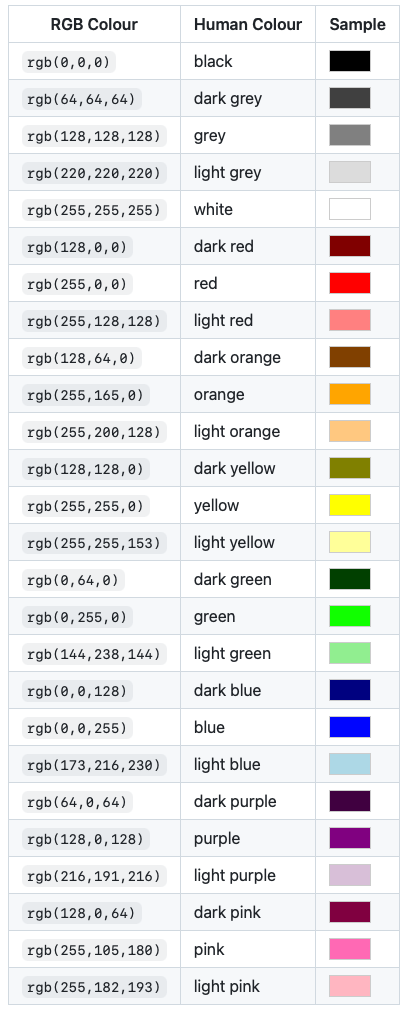
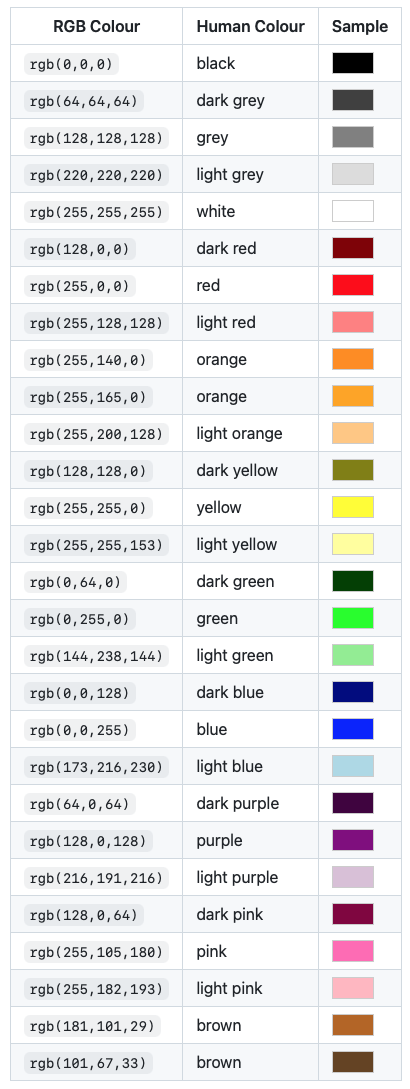
brown is a weird colour https://www.youtube.com/watch\?v\=wh4aWZRtTwU

diff --git a/spec/human_colour_spec.rb b/spec/human_colour_spec.rb
@@ -7,39 +7,42 @@ RSpec.describe HumanColour do
 
   describe ".parse" do
     colours = {
-      "rgb(0,0,0)"        => { en: "black",        es: "negro",         it: "nero",           fr: "noir",          de: "schwarz",        pt: "preto" },
-      "rgb(64,64,64)"     => { en: "dark grey",    es: "gris oscuro",   it: "grigio scuro",   fr: "gris foncé",    de: "dunkel grau",    pt: "cinza escuro" },
-      "rgb(128,128,128)"  => { en: "grey",         es: "gris",          it: "grigio",         fr: "gris",          de: "grau",           pt: "cinza" },
-      "rgb(220,220,220)"  => { en: "light grey",   es: "gris claro",    it: "grigio chiaro",  fr: "gris clair",    de: "hell grau",      pt: "cinza claro" },
-      "rgb(255,255,255)"  => { en: "white",        es: "blanco",        it: "bianco",         fr: "blanc",         de: "weiß",           pt: "branco" },
+      "rgb(0,0,0)"        => { en: "black",        es: "negro",           it: "nero",             fr: "noir",          de: "schwarz",       pt: "preto" },
+      "rgb(64,64,64)"     => { en: "dark grey",    es: "gris oscuro",     it: "grigio scuro",     fr: "gris foncé",    de: "dunkel grau",   pt: "cinza escuro" },
+      "rgb(128,128,128)"  => { en: "grey",         es: "gris",            it: "grigio",           fr: "gris",          de: "grau",          pt: "cinza" },
+      "rgb(220,220,220)"  => { en: "light grey",   es: "gris claro",      it: "grigio chiaro",    fr: "gris clair",    de: "hell grau",     pt: "cinza claro" },
+      "rgb(255,255,255)"  => { en: "white",        es: "blanco",          it: "bianco",           fr: "blanc",         de: "weiß",          pt: "branco" },
 
-      "rgb(128,0,0)"      => { en: "dark red",     es: "rojo oscuro",   it: "rosso scuro",    fr: "rouge foncé",   de: "dunkel rot",     pt: "vermelho escuro" },
-      "rgb(255,0,0)"      => { en: "red",          es: "rojo",          it: "rosso",          fr: "rouge",         de: "rot",            pt: "vermelho" },
-      "rgb(255,128,128)"  => { en: "light red",    es: "rojo claro",    it: "rosso chiaro",   fr: "rouge clair",   de: "hell rot",       pt: "vermelho claro" },
+      "rgb(128,0,0)"      => { en: "dark red",     es: "rojo oscuro",     it: "rosso scuro",      fr: "rouge foncé",   de: "dunkel rot",    pt: "vermelho escuro" },
+      "rgb(255,0,0)"      => { en: "red",          es: "rojo",            it: "rosso",            fr: "rouge",         de: "rot",           pt: "vermelho" },
+      "rgb(255,128,128)"  => { en: "light red",    es: "rojo claro",      it: "rosso chiaro",     fr: "rouge clair",   de: "hell rot",      pt: "vermelho claro" },
 
-      "rgb(128,64,0)"     => { en: "dark orange",  es: "naranja oscuro", it: "arancione scuro", fr: "orange foncé",  de: "dunkel orange", pt: "laranja escuro" },
-      "rgb(255,165,0)"    => { en: "orange",       es: "naranja",        it: "arancione",       fr: "orange",        de: "orange",        pt: "laranja" },
-      "rgb(255,200,128)"  => { en: "light orange", es: "naranja claro",  it: "arancione chiaro", fr: "orange clair", de: "hell orange",   pt: "laranja claro" },
+      "rgb(255,165,0)"    => { en: "orange",       es: "naranja",         it: "arancione",        fr: "orange",        de: "orange",        pt: "laranja" },
+      "rgb(255,200,128)"  => { en: "light orange", es: "naranja claro",   it: "arancione chiaro", fr: "orange clair",  de: "hell orange",   pt: "laranja claro" },
 
-      "rgb(128,128,0)"    => { en: "dark yellow",  es: "amarillo oscuro", it: "giallo scuro",  fr: "jaune foncé",   de: "dunkel gelb",   pt: "amarelo escuro" },
-      "rgb(255,255,0)"    => { en: "yellow",       es: "amarillo",        it: "giallo",        fr: "jaune",         de: "gelb",          pt: "amarelo" },
-      "rgb(255,255,153)"  => { en: "light yellow", es: "amarillo claro",  it: "giallo chiaro", fr: "jaune clair",   de: "hell gelb",     pt: "amarelo claro" },
+      "rgb(128,128,0)"    => { en: "dark yellow",  es: "amarillo oscuro", it: "giallo scuro",     fr: "jaune foncé",   de: "dunkel gelb",   pt: "amarelo escuro" },
+      "rgb(255,255,0)"    => { en: "yellow",       es: "amarillo",        it: "giallo",           fr: "jaune",         de: "gelb",          pt: "amarelo" },
+      "rgb(255,255,153)"  => { en: "light yellow", es: "amarillo claro",  it: "giallo chiaro",    fr: "jaune clair",   de: "hell gelb",     pt: "amarelo claro" },
 
-      "rgb(0,64,0)"       => { en: "dark green",   es: "verde oscuro",  it: "verde scuro",    fr: "vert foncé",    de: "dunkel grün",    pt: "verde escuro" },
-      "rgb(0,255,0)"      => { en: "green",        es: "verde",         it: "verde",          fr: "vert",          de: "grün",           pt: "verde" },
-      "rgb(144,238,144)"  => { en: "light green",  es: "verde claro",   it: "verde chiaro",   fr: "vert clair",    de: "hell grün",      pt: "verde claro" },
+      "rgb(0,64,0)"       => { en: "dark green",   es: "verde oscuro",    it: "verde scuro",      fr: "vert foncé",    de: "dunkel grün",   pt: "verde escuro" },
+      "rgb(0,255,0)"      => { en: "green",        es: "verde",           it: "verde",            fr: "vert",          de: "grün",          pt: "verde" },
+      "rgb(144,238,144)"  => { en: "light green",  es: "verde claro",     it: "verde chiaro",     fr: "vert clair",    de: "hell grün",     pt: "verde claro" },
 
-      "rgb(0,0,128)"      => { en: "dark blue",    es: "azul oscuro",   it: "blu scuro",      fr: "bleu foncé",    de: "dunkel blau",    pt: "azul escuro" },
-      "rgb(0,0,255)"      => { en: "blue",         es: "azul",          it: "blu",            fr: "bleu",          de: "blau",           pt: "azul" },
-      "rgb(173,216,230)"  => { en: "light blue",   es: "azul claro",    it: "blu chiaro",     fr: "bleu clair",    de: "hell blau",      pt: "azul claro" },
+      "rgb(0,0,128)"      => { en: "dark blue",    es: "azul oscuro",     it: "blu scuro",        fr: "bleu foncé",    de: "dunkel blau",   pt: "azul escuro" },
+      "rgb(0,0,255)"      => { en: "blue",         es: "azul",            it: "blu",              fr: "bleu",          de: "blau",          pt: "azul" },
+      "rgb(173,216,230)"  => { en: "light blue",   es: "azul claro",      it: "blu chiaro",       fr: "bleu clair",    de: "hell blau",     pt: "azul claro" },
 
-      "rgb(128,0,128)"    => { en: "purple",       es: "morado",        it: "viola",          fr: "violet",        de: "lila",           pt: "roxo" },
-      "rgb(64,0,64)"      => { en: "dark purple",  es: "morado oscuro", it: "viola scuro",    fr: "violet foncé",  de: "dunkel lila",    pt: "roxo escuro" },
-      "rgb(216,191,216)"  => { en: "light purple", es: "morado claro",  it: "viola chiaro",   fr: "violet clair",  de: "hell lila",      pt: "roxo claro" },
+      "rgb(128,0,128)"    => { en: "purple",       es: "morado",          it: "viola",            fr: "violet",        de: "lila",          pt: "roxo" },
+      "rgb(64,0,64)"      => { en: "dark purple",  es: "morado oscuro",   it: "viola scuro",      fr: "violet foncé",  de: "dunkel lila",   pt: "roxo escuro" },
+      "rgb(216,191,216)"  => { en: "light purple", es: "morado claro",    it: "viola chiaro",     fr: "violet clair",  de: "hell lila",     pt: "roxo claro" },
 
-      "rgb(255,105,180)"  => { en: "pink",         es: "rosa",          it: "rosa",           fr: "rose",          de: "rosa",           pt: "rosa" },
-      "rgb(128,0,64)"     => { en: "dark pink",    es: "rosa oscuro",   it: "rosa scuro",     fr: "rose foncé",    de: "dunkel rosa",    pt: "rosa escuro" },
-      "rgb(255,182,193)"  => { en: "light pink",   es: "rosa claro",    it: "rosa chiaro",    fr: "rose clair",    de: "hell rosa",      pt: "rosa claro" }
+      "rgb(255,105,180)"  => { en: "pink",         es: "rosa",            it: "rosa",             fr: "rose",          de: "rosa",          pt: "rosa" },
+      "rgb(128,0,64)"     => { en: "dark pink",    es: "rosa oscuro",     it: "rosa scuro",       fr: "rose foncé",    de: "dunkel rosa",   pt: "rosa escuro" },
+      "rgb(255,182,193)"  => { en: "light pink",   es: "rosa claro",      it: "rosa chiaro",      fr: "rose clair",    de: "hell rosa",     pt: "rosa claro" },
+
+      "rgb(128,64,0)"     => { en: "brown",        es: "marrón",          it: "marrone",          fr: "brun",          de: "braun",         pt: "marrom" },
+      "rgb(181,101,29)"   => { en: "brown",        es: "marrón",          it: "marrone",          fr: "brun",          de: "braun",         pt: "marrom" },
+      "rgb(101,67,33)"    => { en: "brown",        es: "marrón",          it: "marrone",          fr: "brun",          de: "braun",         pt: "marrom" }
     }.freeze
 
     colours.each do |rgb, expected_translations|

diff --git a/lib/human_colour.rb b/lib/human_colour.rb
@@ -22,8 +22,8 @@ module HumanColour
     d = delta(red: red, green: green, blue: blue)
     s = saturation(delta: d, lightness: l)
     h = hue(delta: d, red: red, green: green, blue: blue)
-    t = tone(lightness: l, hue: h)
-    c = colour(saturation: s, hue: h)
+    c = colour(saturation: s, hue: h, lightness: l)
+    t = tone(lightness: l, hue: h, base: c)
 
     localised_tone   = LOCALES[locale][:tone][t]
     localised_colour = LOCALES[locale][:colour][c]
@@ -70,9 +70,12 @@ module HumanColour
   end
   private_class_method :hue
 
-  def self.tone(lightness:, hue:)
-    return nil if (260..320).cover?(hue) && lightness >= 0.22 && lightness < 0.28
-    return :dark if lightness < 0.28
+  def self.tone(lightness:, hue:, base:)
+    return nil if (260..320).cover?(hue) && lightness.between?(0.22, 0.28)
+    return nil if base == :brown
+
+    # All other hues
+    return :dark  if lightness < 0.28
     return :light if lightness > 0.74
 
     nil
@@ -80,8 +83,9 @@ module HumanColour
   private_class_method :tone
 
   # rubocop:disable Metrics/CyclomaticComplexity, Metrics/MethodLength
-  def self.colour(saturation:, hue:)
+  def self.colour(saturation:, hue:, lightness:)
     return :grey if saturation < 0.15
+    return :brown if (15..50).cover?(hue) && lightness < 0.5
 
     case hue
     when 0...15, 355..360 then :red

diff --git a/lib/human_colour/locales.rb b/lib/human_colour/locales.rb
@@ -10,6 +10,7 @@ module HumanColour
       },
       colour: {
         red: "red",
+        brown: "brown",
         orange: "orange",
         yellow: "yellow",
         green: "green",
@@ -29,6 +30,7 @@ module HumanColour
       },
       colour: {
         red: "rojo",
+        brown: "marrón",
         orange: "naranja",
         yellow: "amarillo",
         green: "verde",
@@ -48,6 +50,7 @@ module HumanColour
       },
       colour: {
         red: "rosso",
+        brown: "marrone",
         orange: "arancione",
         yellow: "giallo",
         green: "verde",
@@ -67,6 +70,7 @@ module HumanColour
       },
       colour: {
         red: "rouge",
+        brown: "brun",
         orange: "orange",
         yellow: "jaune",
         green: "vert",
@@ -86,6 +90,7 @@ module HumanColour
       },
       colour: {
         red: "rot",
+        brown: "braun",
         orange: "orange",
         yellow: "gelb",
         green: "grün",
@@ -105,6 +110,7 @@ module HumanColour
       },
       colour: {
         red: "vermelho",
+        brown: "marrom",
         orange: "laranja",
         yellow: "amarelo",
         green: "verde",

diff --git a/lib/human_colour/version.rb b/lib/human_colour/version.rb
@@ -1,5 +1,5 @@
 # frozen_string_literal: true
 
 module HumanColour
-  VERSION = "0.2.0"
+  VERSION = "0.3.0"
 end
